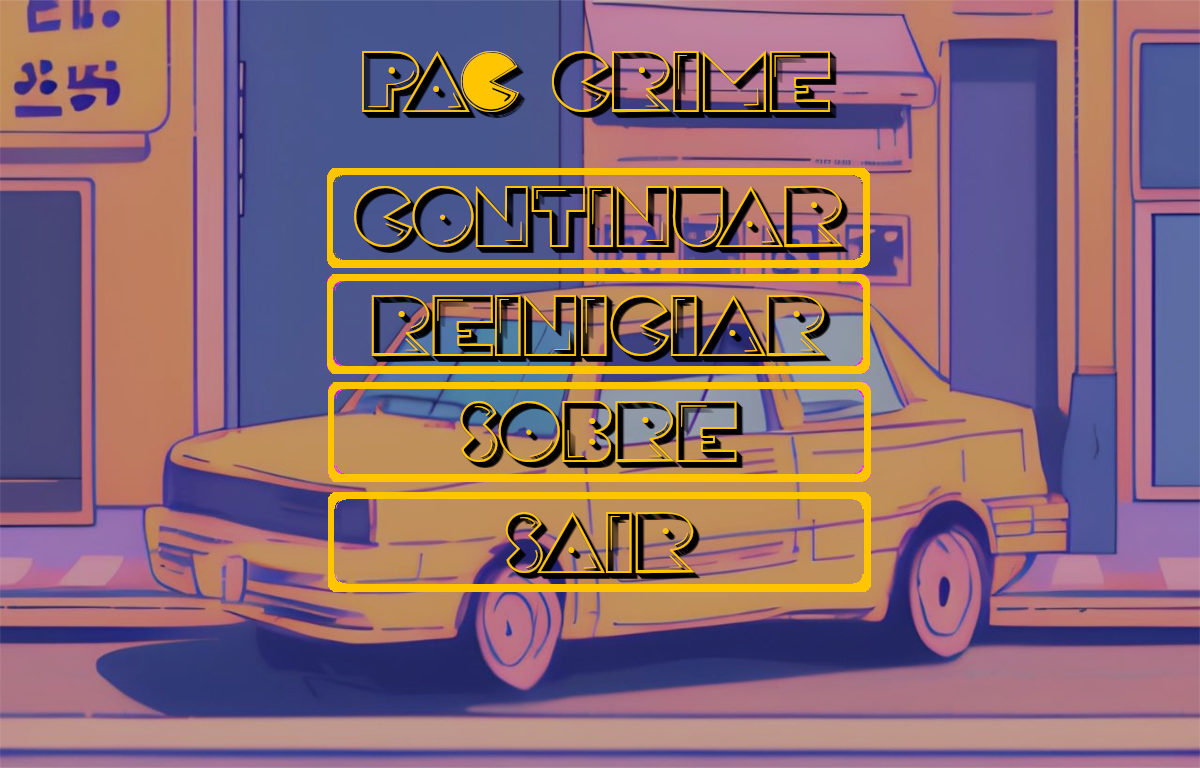
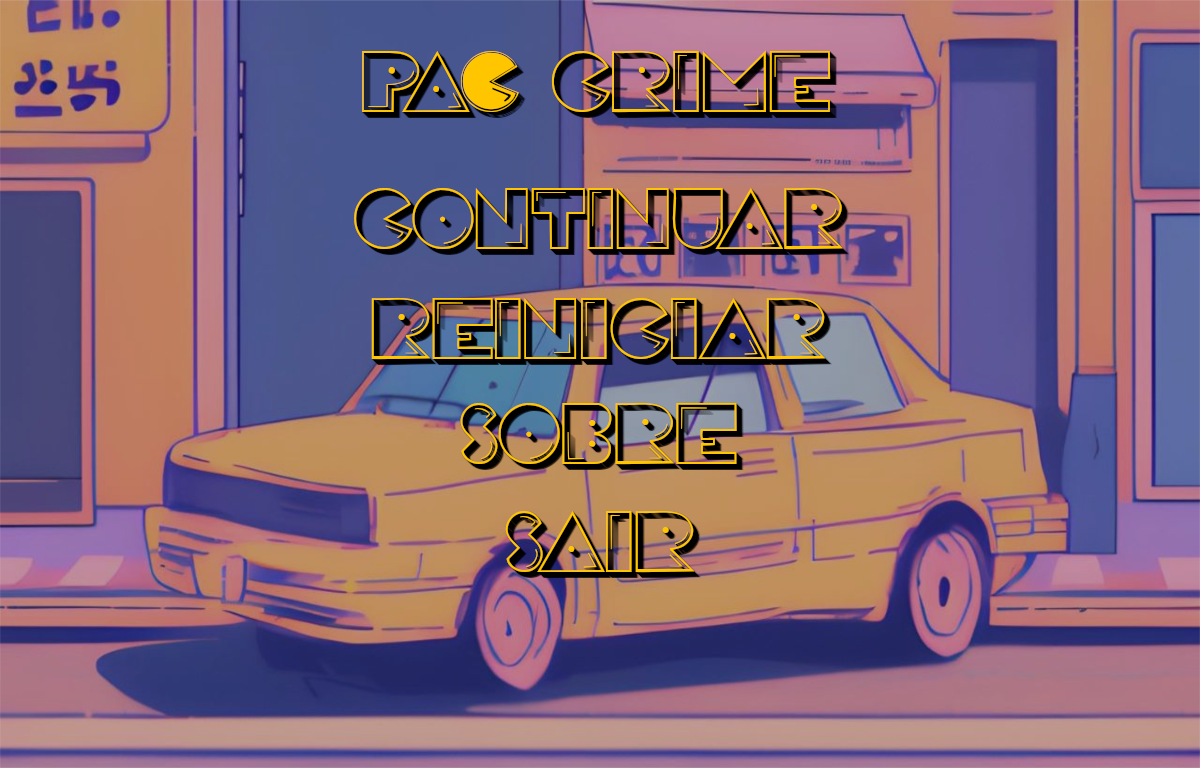
função  de reiniciar e continuar do menu ativas e estilização

Changed region(s): [[0.2467, 0.2188, 0.74, 0.7812], [0.2467, 0.6562, 0.2775, 0.75], [0.2467, 0.375, 0.2775, 0.4688]]

diff --git a/game/Game.cpp b/game/Game.cpp
@@ -3,8 +3,12 @@
 
 Game::Game()
 {
+}
+
+void Game::initialize(){
   // cria a janela
-  window = new sf::RenderWindow(sf::VideoMode(TAMX, TAMY), "Pac-Man");
+  if(!Reiniciando)
+    window = new sf::RenderWindow(sf::VideoMode(TAMX, TAMY), "Pac-Man");
 
   initializeBackground();
   initializePilulas();
@@ -18,6 +22,7 @@ Game::Game()
     throw new GameError("Erro ao inicializar Fantasmas!");
 
   pontos = 0;
+  Reiniciando = false;
 }
 
 void Game::initializeBackground()
@@ -43,7 +48,7 @@ void Game::initializePilulas()
 void Game::gameLoop()
 {
   // executa o programa enquanto a janela esta aberta
-  while (window->isOpen())
+  while(!Reiniciando/*window->isOpen()*/)
   {
     eventLoop();
     updateGame();
@@ -70,6 +75,11 @@ void Game::eventLoop()
         Menu * menu = new Menu(window);
         menu->run_menu();
         delete menu;
+
+        if(menu->Reiniciar){
+            Reiniciando = true;
+            break;
+        }
       }
       if (event.key.code == sf::Keyboard::Left)
       {

diff --git a/main.cpp b/main.cpp
@@ -4,15 +4,23 @@ using namespace std;
 
 int main()
 {
-    Game game;
 
-    try
-    {
-        game.gameLoop();
-    }
-    catch (GameError error)
-    {
-        cout << error.msg << endl;
+    while(true){
+        try
+        {
+            Game game;
+
+            game.initialize();
+            game.gameLoop();
+
+            if(!game.Reiniciando)
+                break;
+
+        }
+        catch (GameError error)
+        {
+            cout << error.msg << endl;
+        }
     }
 
     return 0;

diff --git a/menu/menu.hpp b/menu/menu.hpp
@@ -2,9 +2,10 @@
 
 #include <SFML/Graphics.hpp>
 #include <iostream>
+#include "../globals/globals.hpp"
 
 class Menu {
-    int pos;
+    int pos, cont = 0;
     bool pressed, theselect, sair;
 
     sf::RenderWindow * window;
@@ -30,4 +31,5 @@ class Menu {
         Menu(sf::RenderWindow* win);
         ~Menu();
         void run_menu();
+        bool Reiniciar = false;
 };

diff --git a/globals/globals.hpp b/globals/globals.hpp
@@ -20,7 +20,6 @@ const char c_ImgCarUp[16] = "img/carroup.png";
 //Caminhos imagens Policia
 const char c_ImgPolDir[17] = /*"carro_policia.png"*/"img/ghost.png";
 
-
 enum Direction
 {
   Left,

diff --git a/game/game.hpp b/game/game.hpp
@@ -36,6 +36,7 @@ public:
   };
   sf::Clock clock;
   int pontos;
+  bool Reiniciando = false;
   void initialize();
   void gameLoop();
   Game();
